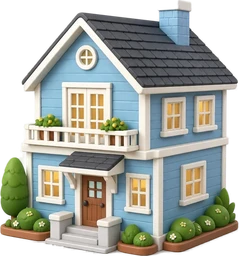
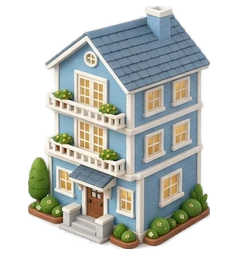
v155: regenerated house pictures (cottage, cabin, modern, two-storey, villa), one tile scale for all houses, castle resized
Claude-Session: https://claude.ai/code/session_01PRHybDNjeetHDn4kd4ub9X

diff --git a/public/sw.js b/public/sw.js
@@ -3,7 +3,7 @@
      shows up immediately; the cached copy is used only when offline.
    - /api/* is never cached (logins, shared words, sync always go to the server).
    - Google Fonts: stale-while-revalidate. Bump CACHE when the list changes. */
-const CACHE = "koala-study-v154";
+const CACHE = "koala-study-v155";
 const PRECACHE = [
   "/", "/index.html", "/css/style.css", "/css/themes.css", "/css/admin.css", "/js/app.js", "/js/support.js",
   "/js/faq.js", "/js/admin-cs.js", "/js/koala-core.js", "/js/quiz-core.js", "/js/koala-art.js", "/js/koala-house.js", "/js/koala-house-ui.js", "/css/koala-house.css", "/js/words.js", "/js/words_ko.js",
